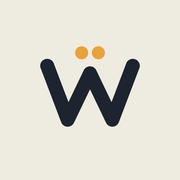
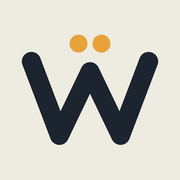
v259 : un pouls pour detecter l'absence, et le monogramme agrandi
L'OUVERTURE NE JOUAIT PLUS depuis l'app installee sur l'ecran d'accueil :
on tombait droit dans l'app, sans video. Elle revenait uniquement apres
avoir vraiment ferme l'app depuis le selecteur, puisque la page etait alors
rechargee de zero.

Cause : les v251 a v258 attendaient un evenement de DEPART -- blur,
pagehide, freeze, visibilitychange -- pour savoir qu'on s'etait absente.
Une app installee n'en emet pas forcement : iOS la suspend et la reveille
sans rien dire a la page. Aucun evenement, donc aucune relecture. En onglet
Safari le probleme n'existait pas, d'ou huit versions passees a cote.

Correctif : on ne demande plus rien au systeme. Un pouls estampille l'heure
toutes les 300 ms ; quand l'app est suspendue il s'arrete, et le trou entre
deux estampilles mesure l'absence. Les evenements de depart gardent leur
autre role -- couvrir l'ecran avant que le systeme photographie la page.

Deux details qui comptent :
  - le demarrage (6 premieres secondes) est exclu du pouls : c'est la seule
    periode ou le fil principal peut rester bloque assez longtemps pour
    ressembler a une absence ;
  - au retour, si l'ouverture joue encore et que la video a ete mise en
    pause par le passage au premier plan, on la relance au lieu de la
    couper. C'est ce qui la tuait aussi au lancement, iOS enchainant blur
    puis focus pendant que l'app s'ouvre.

Verifie en simulant une suspension par blocage du fil principal : 6 s sans
[…]

Changed region(s): [[0.1111, 0.1667, 0.8889, 0.8056]]

diff --git a/index.html b/index.html
@@ -187,7 +187,8 @@ html,body{margin:0}
     var DELAI_ABSENCE = 5000;
     var enCours = false;
     var minuterie = null;
-    var cacheDepuis = 0;
+    var derniereBattue = Date.now();
+    var debutPage = Date.now();
 
     // Exposee (v256) pour que la mise a jour silencieuse puisse recouvrir
     // l'ecran avant de recharger la page.
@@ -240,51 +241,74 @@ html,body{margin:0}
     jouer();
 
     // ---- Quitter l'app, puis y revenir ---------------------------------
-    // Sur telephone, quitter l'app puis y revenir ne recharge PAS la page --
-    // elle est seulement mise en veille -- donc rien ne rejouerait sans ceci.
+    // Quitter l'app puis y revenir ne recharge PAS la page -- elle est
+    // seulement mise en veille -- donc rien ne rejouerait sans ceci.
     //
-    // Et surtout : on couvre l'ecran AVANT de partir. Le systeme photographie
-    // la page au moment ou l'app s'efface et reaffiche cette photo pendant
-    // qu'il la rouvre ; si la photo montre l'accueil, on voit l'accueil une
-    // fraction de seconde avant la video.
+    // LE POULS (v259). Les v251 a v258 attendaient un evenement de DEPART
+    // (blur, pagehide, freeze, visibilitychange) pour savoir qu'on s'etait
+    // absente. Une app INSTALLEE sur l'ecran d'accueil n'en emet pas
+    // forcement : iOS la suspend et la reveille sans rien dire a la page. On
+    // retombait donc droit dans l'app sans jamais revoir l'ouverture -- sauf
+    // apres l'avoir vraiment fermee depuis le selecteur d'apps, puisque la
+    // page etait alors rechargee de zero. C'est exactement ce qui a ete
+    // observe apres l'installation.
     //
-    // La v252 couvrait sur visibilitychange -- trop tard : quand cet evenement
-    // arrive, la page est DEJA cachee, donc elle ne se redessine plus et la
-    // couverture n'entre jamais dans la photo. C'est pourquoi le defaut
-    // persistait. "blur" arrive plus tot, pendant que la page dessine encore ;
-    // pagehide et freeze couvrent les cas ou l'app est carrement dechargee.
-    // Les quatre passent par la meme porte, qui ne s'ouvre qu'une fois.
+    // On ne demande donc plus rien au systeme : on estampille l'heure toutes
+    // les 300 ms. Quand l'app est suspendue le pouls s'arrete, et le trou
+    // entre deux estampilles mesure l'absence. Aucun evenement n'est requis.
+    //
+    // Les evenements de depart gardent un autre role : couvrir l'ecran AVANT
+    // de partir, pour que la photo que le systeme prend de la page -- et qu'il
+    // reaffiche pendant qu'il la rouvre -- montre l'ouverture et non l'accueil.
+    // "blur" arrive pendant que la page dessine encore ; pagehide et freeze
+    // couvrent le cas ou l'app est carrement dechargee.
     function veille(){
-        if(cacheDepuis) return;          // deja en veille : rien a refaire
-        cacheDepuis = Date.now();
+        if(enCours) return;              // l'ouverture couvre deja l'ecran
         if(minuterie){ clearTimeout(minuterie); minuterie = null; }
-        enCours = false;
         try{ video.pause(); }catch(e){}
         couvrir();
     }
 
-    function reveil(){
-        if(!cacheDepuis) return;
-        var absence = Date.now() - cacheDepuis;
-        cacheDepuis = 0;
+    function retour(){
+        var absence = Date.now() - derniereBattue;
+        derniereBattue = Date.now();
+        // L'ouverture joue encore : passer au premier plan a pu mettre la video
+        // en pause. On la relance plutot que de la couper -- c'est aussi ce qui
+        // empechait l'ouverture de survivre au lancement de l'app installee,
+        // iOS enchainant blur puis focus pendant qu'elle s'ouvre.
+        if(enCours){
+            if(video.paused){ try{ video.play(); }catch(e){} }
+            return;
+        }
         // Un aller-retour eclair (une notification, une feuille de partage) ne
         // merite pas trois secondes d'animation : on decouvre sans fondu.
         if(absence >= DELAI_ABSENCE) jouer();
         else decouvrir(false);
     }
 
+    setInterval(function(){
+        var absence = Date.now() - derniereBattue;
+        derniereBattue = Date.now();
+        if(enCours) return;
+        // Le demarrage est exclu : c'est la seule periode ou le fil principal
+        // peut rester bloque assez longtemps pour ressembler a une absence
+        // (chargement et indexation du vocabulaire).
+        if(Date.now() - debutPage < 6000) return;
+        if(absence >= DELAI_ABSENCE) jouer();
+    }, 300);
+
     window.addEventListener("blur", veille);
     window.addEventListener("pagehide", veille);
     document.addEventListener("freeze", veille);
-    window.addEventListener("focus", reveil);
+    window.addEventListener("focus", retour);
     document.addEventListener("visibilitychange", function(){
-        if(document.hidden) veille(); else reveil();
+        if(document.hidden) veille(); else retour();
     });
 
     // Safari restaure parfois la page depuis son cache d'historique sans passer
     // par visibilitychange : on y revient de l'exterieur, donc on rejoue.
     window.addEventListener("pageshow", function(ev){
-        if(ev.persisted){ cacheDepuis = 0; jouer(); }
+        if(ev.persisted){ derniereBattue = Date.now(); jouer(); }
     });
 })();
 </script>
@@ -3348,7 +3372,7 @@ body[data-theme="dark"] .home-stat-val{color:#e9ecf1;}
     </button>
 
     <div class="card home-stats-card" id="homeStatsCard">
-        <span class="subtitle-version">v258</span>
+        <span class="subtitle-version">v259</span>
         <div class="global-progress-row">
             <div class="home-stat-cote">
                 <div class="home-stat-ico">🔥</div>
@@ -14863,7 +14887,7 @@ document.addEventListener("visibilitychange", () => {
 
 
 // Le numero de version est affiche a cote du titre. Il n'y a volontairement
-const APP_VERSION = 258;
+const APP_VERSION = 259;
 
 function afficherNumeroVersion(){
     const el = document.querySelector(".subtitle-version");

diff --git a/branding/faire-ecrans-de-lancement.py b/branding/faire-ecrans-de-lancement.py
@@ -51,6 +51,46 @@ def largeur_css_du_logo(l_css, h_css):
     """La regle CSS : width: min(76vw, 58vh, 420px)."""
     return min(0.76 * l_css, 0.58 * h_css, 420.0)
 
+# Part de la largeur de l'icone qu'occupe le monogramme. Dans le fichier
+# d'origine il n'en prenait que 55 %, ce qui le rendait minuscule une fois
+# pose sur l'ecran d'accueil parmi les autres apps. iOS decoupe ensuite
+# l'icone en carre arrondi : a 76 %, le logo respire encore sans jamais
+# s'approcher des coins ronges par ce masque.
+PART_DU_LOGO = 0.76
+
+def faire_icone():
+    """Recadre le monogramme au plus pres, puis le recentre plus gros.
+
+    Sans icone declaree, iOS fabrique la sienne a partir d'une capture de la
+    page -- une vignette illisible. Le fichier d'origine
+    (wortando-app-icon.png) n'est PAS modifie : il sert encore de favicon et
+    d'icone de notification, ou le cadrage large convient.
+    """
+    src = Image.open(RACINE / "branding" / "wortando-app-icon.png").convert("RGB")
+    papier = src.getpixel((5, 5))
+    px = src.load()
+    x0, y0, x1, y1 = src.width, src.height, 0, 0
+    for y in range(src.height):
+        for x in range(src.width):
+            r, g, b = px[x, y]
+            if abs(r-papier[0]) + abs(g-papier[1]) + abs(b-papier[2]) > 40:
+                x0, x1 = min(x0, x), max(x1, x)
+                y0, y1 = min(y0, y), max(y1, y)
+    logo = src.crop((x0, y0, x1 + 1, y1 + 1))
+
+    cote = 1024
+    ll = round(cote * PART_DU_LOGO)
+    lh = round(ll * logo.height / logo.width)
+    toile = Image.new("RGB", (cote, cote), papier)
+    toile.paste(logo.resize((ll, lh), Image.LANCZOS),
+                ((cote - ll) // 2, (cote - lh) // 2))
+    toile.save(RACINE / "branding" / "wortando-icone-ecran-accueil.png", optimize=True)
+    toile.resize((180, 180), Image.LANCZOS).save(
+        RACINE / "branding" / "wortando-apple-touch-icon.png", optimize=True)
+    print("  logo recadre : %dx%d -> %d%% de l'icone (etait %d%%)" % (
+        logo.width, logo.height, round(100 * PART_DU_LOGO),
+        round(100 * logo.width / src.width)))
+
 def main():
     logo = Image.open(SOURCE).convert("RGB")
     SORTIE.mkdir(parents=True, exist_ok=True)
@@ -74,11 +114,7 @@ def main():
         lignes.append((nom, l_css, h_css, densite,
                        (SORTIE / nom).stat().st_size))
 
-    # L'icone que iOS pose sur l'ecran d'accueil. Sans elle, iOS fabrique
-    # l'icone a partir d'une capture de la page -- une vignette illisible.
-    icone = Image.open(RACINE / "branding" / "wortando-app-icon.png").convert("RGB")
-    icone.resize((180, 180), Image.LANCZOS).save(
-        RACINE / "branding" / "wortando-apple-touch-icon.png", optimize=True)
+    faire_icone()
 
     total = sum(l[4] for l in lignes)
     for nom, l, h, d, o in lignes:
